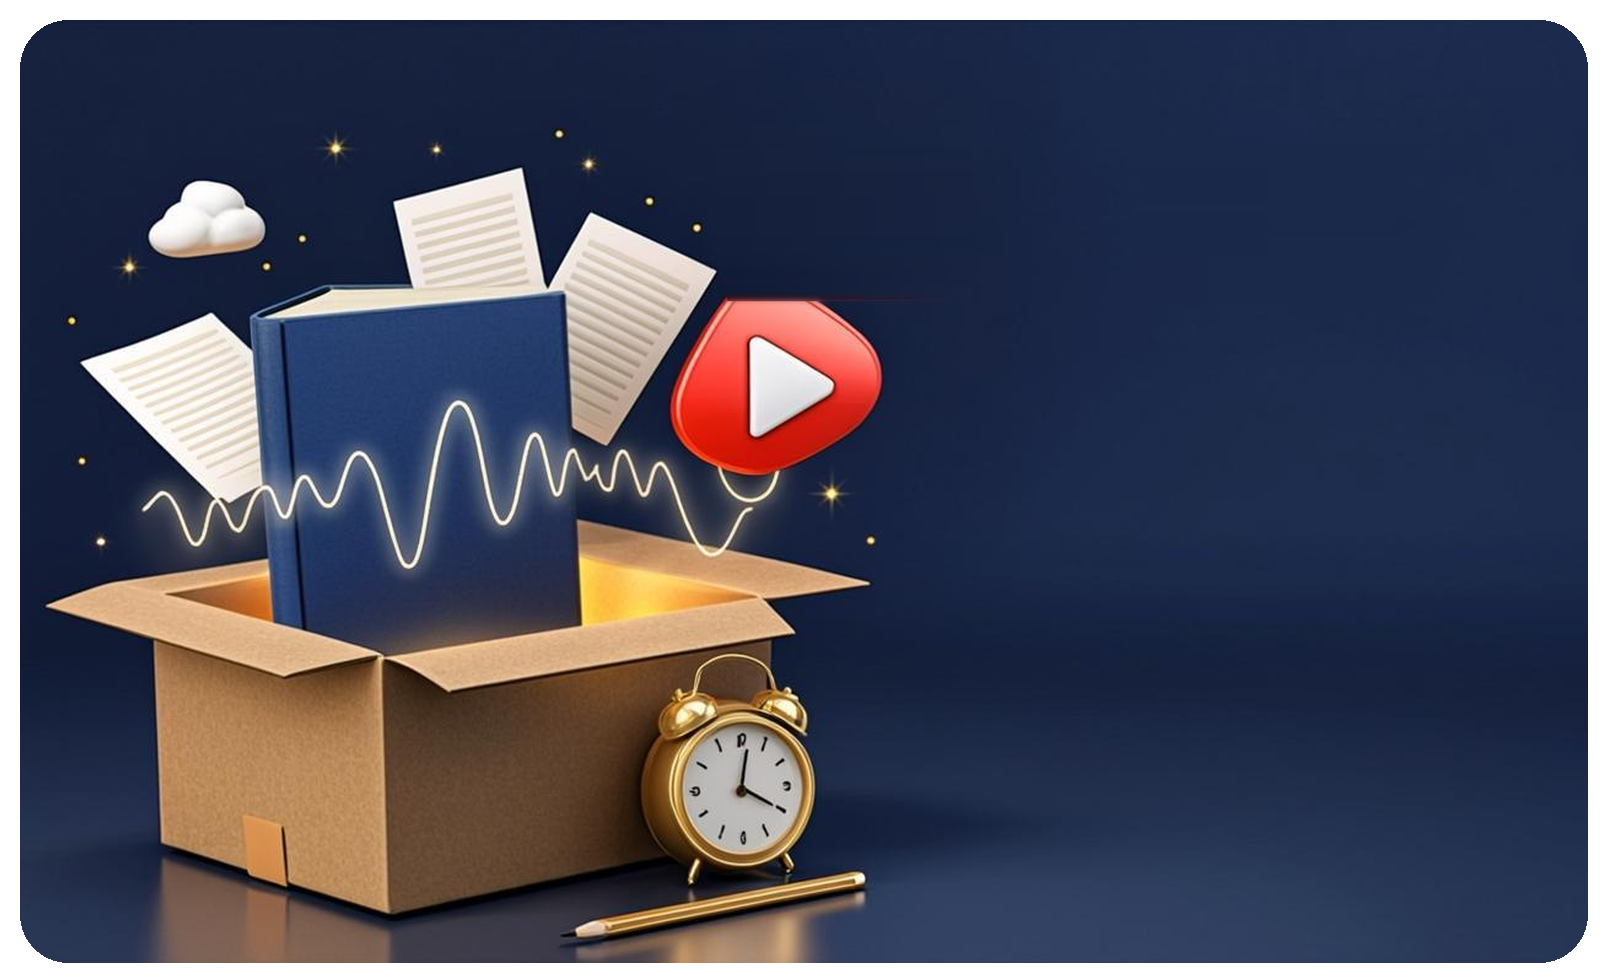
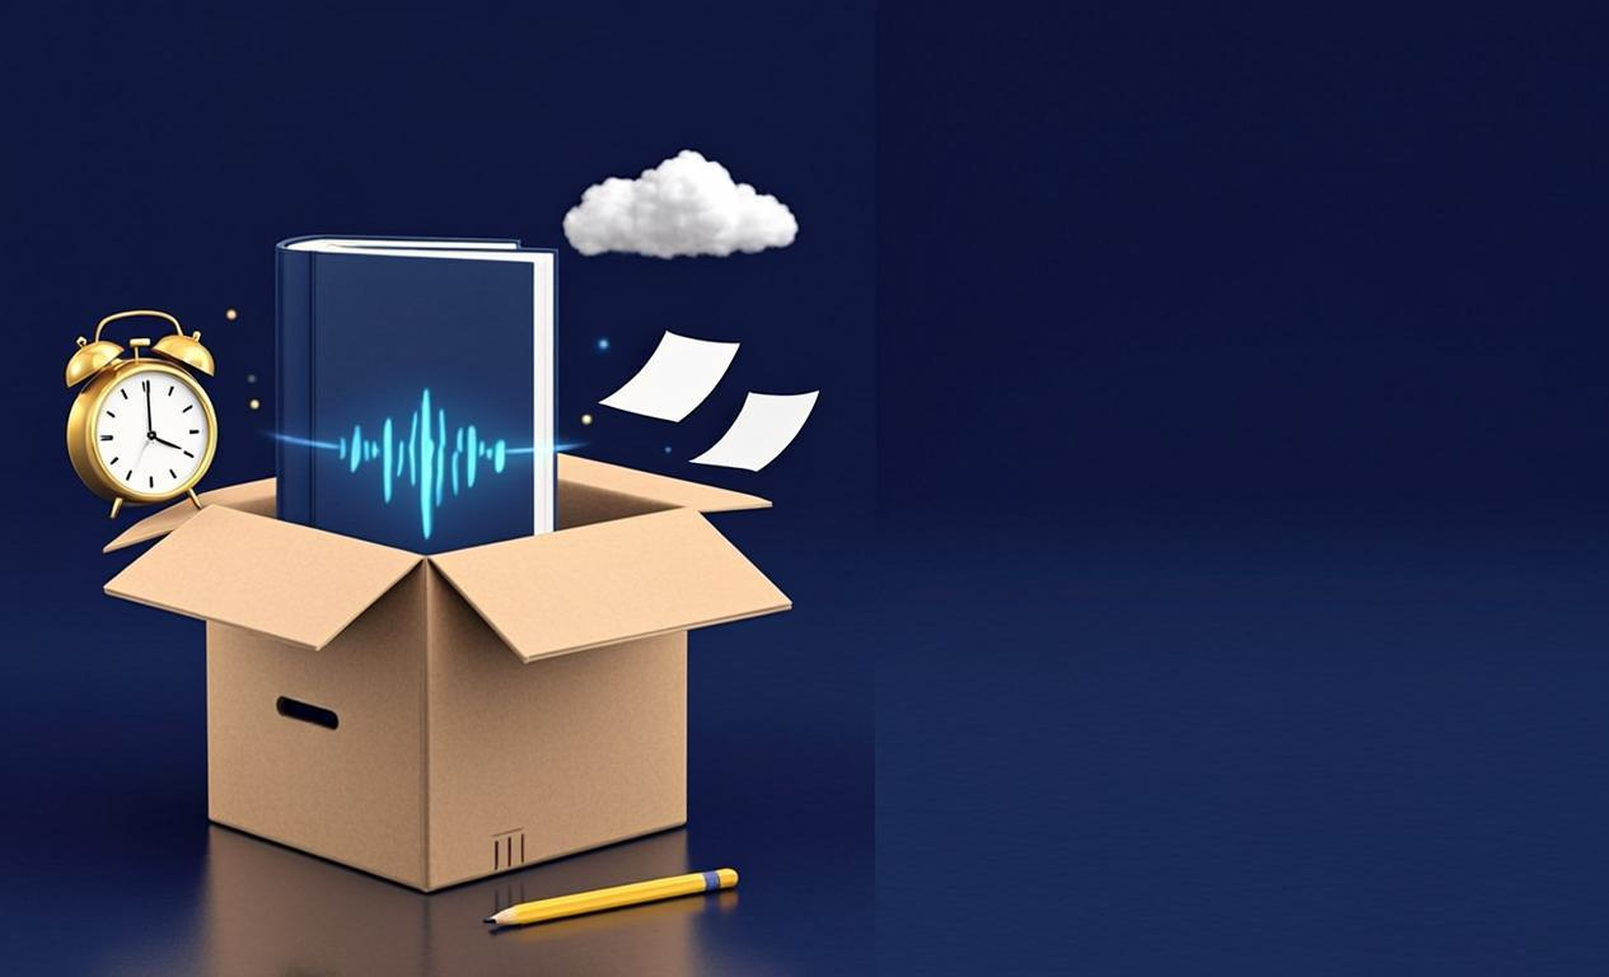
v11: fix the 'image inside a frame' look - product artworks are now full-bleed opaque (transparent margins + baked inner corners removed, card CSS clips the corners); object-fit cover on desktop and mobile so the art always fills the card edge-to-edge; regenerated both artworks with cleaner composit

diff --git a/index.html b/index.html
@@ -153,9 +153,9 @@
   .cards{flex:1 1 auto;min-height:0;display:flex;gap:var(--gap-cards)}
   .card{position:relative;border-radius:var(--r-lg);overflow:hidden;max-height:100%;
     flex:1 1 0;min-width:0;
-    background:linear-gradient(120deg,#122A5C 0%,#0A1A3C 55%,#081431 100%);
+    background:linear-gradient(120deg,#0D224E 0%,#0A1A3C 55%,#081431 100%);
     box-shadow:0 10px 30px rgba(16,28,51,.14);aspect-ratio:1609/977}
-  .card .bg-slot{object-fit:contain}
+  .card .bg-slot{object-fit:cover}
   .card-body{position:absolute;top:0;bottom:clamp(80px,11vh,96px);right:0;width:49%;z-index:1;
     padding:clamp(14px,2.6vh,24px) clamp(14px,2.4vw,22px) 0 0;
     display:flex;flex-direction:column;align-items:flex-start}
@@ -166,7 +166,7 @@
   .eyebrow{font-size:clamp(10.5px,1.7vh,12px);color:#9FB0CC;font-weight:500}
   .card-body h3{font-size:clamp(19px,3.4vh,25px);font-weight:800;color:#fff;margin-top:3px;line-height:1.45}
   .card-body .desc{font-size:clamp(10.5px,1.75vh,12px);color:#B9C4D8;line-height:1.8;margin-top:clamp(4px,1vh,8px)}
-  .chips{display:flex;gap:var(--sp-1);margin-top:auto;flex-wrap:wrap;padding-top:clamp(6px,1.2vh,10px)}
+  .chips{display:flex;gap:12px;margin-top:auto;flex-wrap:wrap;padding-top:clamp(6px,1.2vh,10px)}
   .chip{display:flex;align-items:center;gap:6px;background:rgba(255,255,255,.09);
     border:1px solid rgba(255,255,255,.12);border-radius:999px;padding:clamp(5px,1vh,7px) clamp(9px,1vw,13px);
     font-size:clamp(10px,0.95vw + 2px,12px);font-weight:700;color:#DCE4F2;white-space:nowrap}
@@ -253,7 +253,7 @@
     /* cards: stacked, normal document flow — nothing overlaps */
     .cards{flex-direction:column}
     .card{flex:0 0 auto;min-height:0;display:flex;flex-direction:column}
-    .card .bg-slot{position:relative;inset:auto;width:100%;height:210px;object-position:left center}
+    .card .bg-slot{position:relative;inset:auto;width:100%;height:210px;object-fit:cover;object-position:left center}
     .card-body{position:relative;inset:auto;width:100%;padding:var(--sp-4) var(--sp-4) 0}
     .card-body h3{font-size:21px}
     .chips{margin-top:var(--sp-3);margin-bottom:var(--sp-2)}
@@ -326,7 +326,7 @@
     .m-tag{font-size:10px;font-weight:500;color:#B9C4D8}
     .m-course h3{font-size:15.5px;font-weight:800;color:#fff;margin:5px 0 4px}
     .m-course p{font-size:8.5px;color:#C7D3E6;line-height:1.7;margin:0}
-    .m-chips{display:flex;gap:8px;flex-wrap:wrap;margin-top:8px}
+    .m-chips{display:flex;gap:12px;flex-wrap:wrap;margin-top:8px}
     .m-chip{display:inline-flex;align-items:center;gap:5px;background:rgba(255,255,255,.09);
       border:1px solid rgba(255,255,255,.08);border-radius:9px;padding:4px 8px;font-size:9px;font-weight:700;color:#E9EFF8}
     .m-chip svg{width:11px;height:11px;color:var(--gold)}
